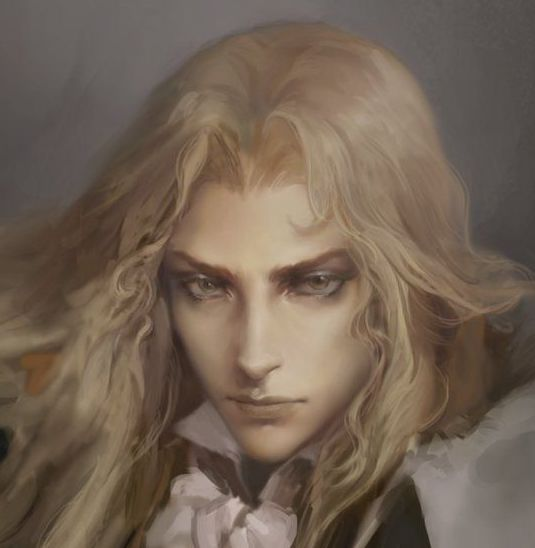
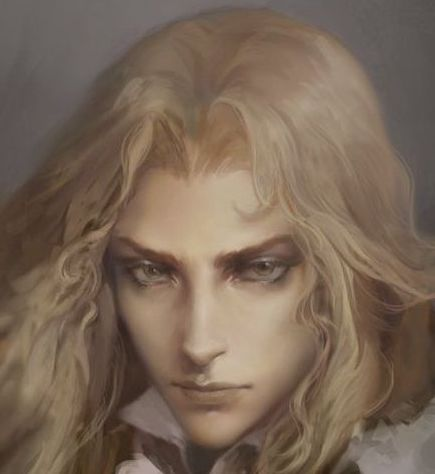
status update

diff --git a/src/components/subComponents/Status.jsx b/src/components/subComponents/Status.jsx
@@ -1,12 +1,13 @@
 import React from 'react';
 import '../css/Status.css';
+import { playerPortraits } from '../assets/playerPortraits/playerPortraits';
 
 export default class Status extends React.Component {
     render() {
         return (
             <div className="status">
                 <div className="status-container">
-                    No Status Data
+                    <img id="playerStatusImage" src={playerPortraits[0].url} alt="player" ></img>
                 </div>
             </div>
         )

diff --git a/src/components/assets/playerPortraits/playerPortraits.jsx b/src/components/assets/playerPortraits/playerPortraits.jsx
@@ -1,8 +1,24 @@
 import Gwen from './Gwen.jpg';
+import Ashnoa from './Ashnoa.jpg';
+import Adrian from './Adrian.jpg';
+import Lydia from './Lydia.png';
+
 
 export const playerPortraits = [
     {
         id: 1,
         url: Gwen
+    },
+    {
+        id: 2,
+        url: Ashnoa
+    },
+    {
+        id: 3,
+        url: Adrian
+    },
+    {
+        id: 4,
+        url: Lydia
     }
 ]

diff --git a/src/components/subComponents/Quests.jsx b/src/components/subComponents/Quests.jsx
@@ -11,7 +11,6 @@ export default class Quests extends React.Component {
         }
     }
 
-
     mainQuestDisplay() {
         this.setState({
             mainDisplay: 'inline-block',
@@ -54,8 +53,6 @@ export default class Quests extends React.Component {
                     </div>
                 </div>
             </React.Fragment>
-
-
         )
     }
 }

diff --git a/src/components/css/Status.css b/src/components/css/Status.css
@@ -9,6 +9,14 @@
 
 .status-container {
     display: inline-block;
-    background-color: rgb(250, 249, 249);
-    padding: 8em;
+    margin: 0;
+    background-image: url("../assets/mainBottomBack.jpg");
+}
+
+#playerStatusImage {
+    vertical-align: top;
+    width: 160px;
+    height: 160px;
+    margin: 1em;
+    padding: 0;
 }
